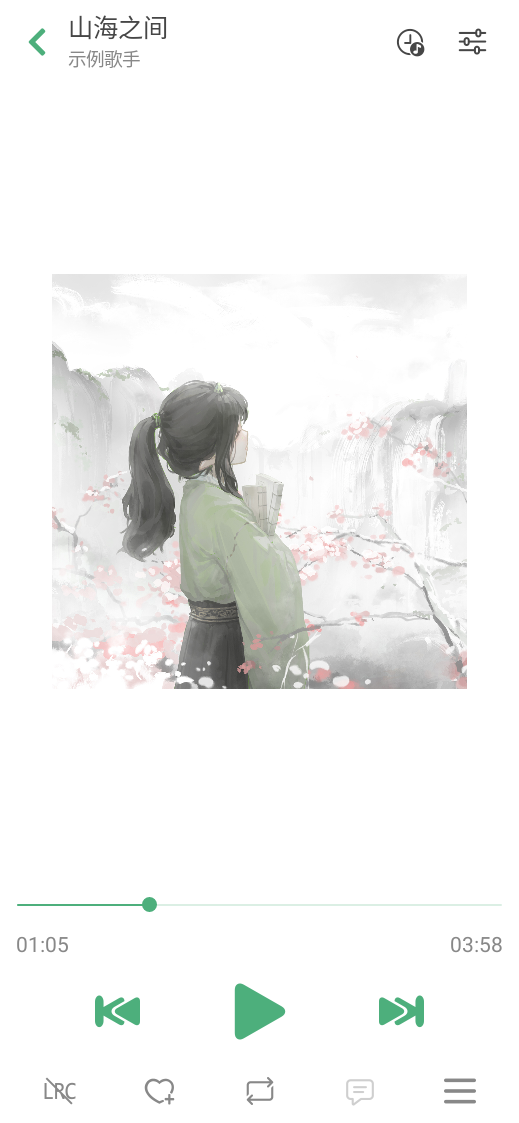
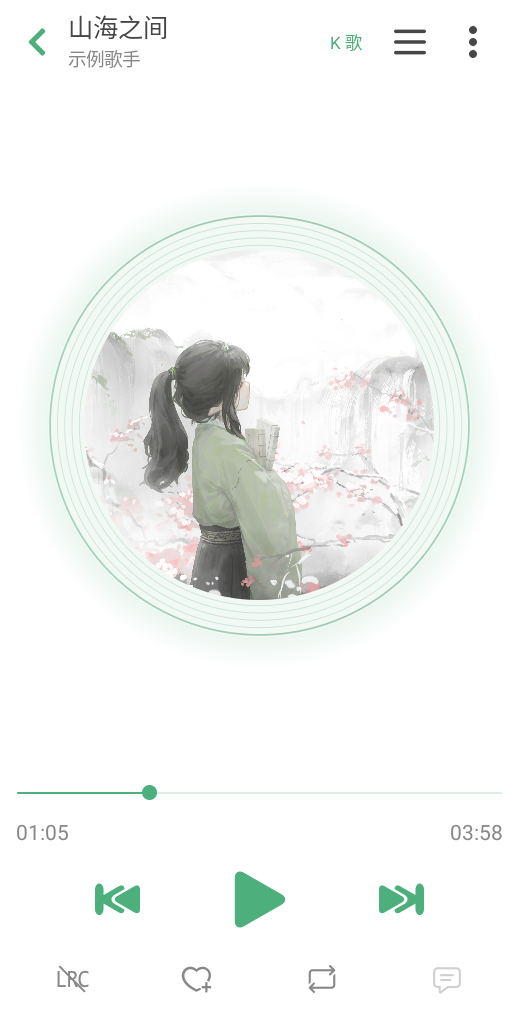
docs: 更新 README 和播放页截图

diff --git a/README.md b/README.md
@@ -1,28 +1,48 @@
 # LX Music 原生 Android
 
-基于 LX Music 迁移的原生 Kotlin 音乐应用，适配手机和平板。
+基于 LX Music 迁移的 Kotlin 原生 Android 音乐应用。支持在线与本地音乐、同步歌词、均衡器和本机 K 歌录唱，适配手机和平板。
 
 > 特别说明：不建议在任何渠道进行公开传播，其后果自负。
 
+## 安装与更新
+
+从 [GitHub Releases](https://github.com/savet-save/lx-music-android/releases) 选择 `native-v*` 发布下的 APK。下表为当前源码启用 ABI 拆分后的六种 APK 文件名后缀，完整文件名以 `lx-music-native-v版本号` 开头。已发布的 [0.9.21](https://github.com/savet-save/lx-music-android/releases/tag/native-v0.9.21) 提供三种普通版 APK。
+
+| 设备架构 | 普通版 | 内置人声分离模型版 |
+| --- | --- | --- |
+| 64 位 ARM（`arm64-v8a`） | `-armv8.apk` | `-armv8-with-model.apk` |
+| 32 位 ARM（`armeabi-v7a`） | `-armv7.apk` | `-armv7-with-model.apk` |
+| 通用（ARM、x86、x86_64） | `-all.apk` | `-all-with-model.apk` |
+
+普通版可在应用内按需下载模型，内置版从 APK 加载模型。设备架构不确定时可选择通用包。
+
+当前源码的应用内更新会保持现有 APK 的模型类型，并按设备支持的架构选包。下载过模型的普通版仍使用普通版更新。缺少匹配的架构包时选用同类型的通用包。应用 ID 为 `cn.toside.music.nativeapp`，覆盖升级需匹配包名和签名。原 LX Music 应用的歌单可通过备份或同步迁入。
+
+早期内置模型版需手动覆盖到支持此规则的内置版一次，之后即可沿内置版更新。
+
 ## 主要特点
 
-- **手机 / 平板自适应**：手机侧边导航与大封面播放页，平板常驻侧栏、封面与歌词并排显示。
-- **音乐发现**：五平台聚合搜索，支持歌曲、歌单、排行榜、推荐和评论；启用“B站音乐”后可搜索 bilibili 视频并播放音频。
-- **多音源管理**：支持本地和链接导入，最多同时启用 3 个音源，自定义优先级，失败后依次尝试。
-- **播放与下载**：播放队列、倍速、定时停止、音频缓存和离线重播，支持下载音频、歌词及封面，bilibili 原始音频可另存为 MP3。
-- **歌词与字幕**：逐字歌词、译文、罗马音和桌面歌词；bilibili 可选择优先视频字幕或优先匹配歌词。
-- **本地音乐与数据同步**：歌曲信息编辑、歌单管理、备份导入导出，支持歌单与不喜欢列表双向同步。
-- **个性化设置**：16 套主题，简体中文、繁体中文和英文，支持字号、歌词排版及左右导航设置。
+- **手机和平板播放页**支持圆形旋转封面，暂停时保留角度。采用主题色的光环随播放音量变化，无需麦克风授权。手机可切换封面和歌词，平板可并排显示。播放与歌词设置、定时停止和歌曲操作集中在右上角的「更多」菜单。
+- **播放和下载**支持队列编辑、播放历史、倍速、音频缓存和离线重播，以及音频、歌词和封面下载。播放队列与播放历史使用独立页面，bilibili 原始音频可另存为 MP3。均衡器可调整各频段增益并查看曲线，频段和增益范围取决于设备。
+- **音乐发现**提供五平台聚合搜索、歌单、排行榜、推荐、搜索历史和热搜。启用「B站音乐」后可搜索 bilibili 视频并播放音频。评论和回复可独立查看，单张配图按比例展示，多张配图以网格显示，点击可查看大图。
+- **多音源与歌词**支持从本地或链接导入脚本，最多同时启用 3 个音源并按优先级尝试。歌词支持逐字、译文、罗马音和桌面歌词，bilibili 可选择优先视频字幕或匹配歌词。
+- **K 歌录唱**支持本机人声分离、伴奏缓存、原唱切换、同步录音和混音试听。可裁剪录音、调整伴奏与人声音量及对齐方式，支持基础降噪。
+- **本地音乐与个性化**支持歌曲信息编辑、歌单与不喜欢列表双向同步、歌单备份恢复、16 套主题，以及简体中文、繁体中文和英文界面。
 
 ## 使用需求
 
-- **系统**：Android 9（API 28）及以上，支持手机和平板。
-- **网络与音源**：在线搜索需要联网；播放或下载未缓存的在线音频还需启用可用音源，新安装默认启用“野花🌷”。使用 bilibili 需启用“B站音乐”，部分内容和字幕需要登录。
-- **功能权限**：访问本地媒体库时按提示授权音频读取，桌面歌词需悬浮窗权限；Android 9 下载文件时需存储写入权限。
-- **数据同步**：需准备兼容 LX v4 的同步服务地址及连接码，在“数据同步”中连接。
-- **首次使用**：阅读并同意应用内的项目使用协议。
+- 手机和平板需运行 Android 9（API 28）或更高版本。首次使用需阅读并同意应用内的项目使用协议。
+- 在线搜索需要联网，播放或下载未缓存的在线音频还需可用音源。新安装默认启用「野花🌷」。bilibili 的部分内容和字幕需要登录。
+- 使用本地媒体库时按提示授权音频读取。桌面歌词需悬浮窗权限，K 歌录音需麦克风权限，Android 9 下载文件时需存储写入权限。
+- 数据同步需准备兼容 LX v4 的同步服务地址及连接码，在「数据同步」中连接。
 
-自行构建需 JDK 17 和 Android SDK 36，步骤见[使用与开发说明](DEVELOPMENT.md)。
+## K 歌与人声分离
+
+1. 选择歌曲，在播放页点击「K 歌」。伴奏准备显示百分比，同一歌曲和分离配置匹配时可复用伴奏缓存。
+2. 录音时可同步看歌词、暂停、继续或提前结束，歌曲结束后自动停止。录完可拖动试听进度，也可在试听时实时调整伴奏和人声音量。
+3. 保存后，混音以 WAV 形式存入应用私有目录。可在「我的列表」或 K 歌页打开「我的 K 歌歌单」，播放、查看录制时间等信息、导出或分享。
+
+「设置 → 人声分离」可下载约 30 MB 的 MDX-Net（UVR 9703）模型，也可从 K 歌页按需下载。内置版可离线加载模型，本地分离使用 ONNX Runtime。设置中可调整消除强度、分块重叠和推理线程，修改在下次准备伴奏时应用。模型未安装、关闭、内存不足或分离失败时，可使用基础伴奏。人声残留与处理耗时取决于原音和设备。
 
 ## 界面预览
 
@@ -46,6 +66,17 @@
 - **登录凭据**：bilibili SESSDATA 和网易歌单访问凭据通过 Android Keystore 加密保存在本机，可在设置中清除；bilibili 凭据不会提供给自定义音源脚本或音频 CDN。
 - **第三方服务**：仅在连接同步服务后同步歌单和不喜欢列表。请使用可信任的音源脚本及同步服务，第三方服务会接收相应请求或同步数据。
 - **备份与恢复**：卸载应用或清除应用数据前，请先导出歌单备份。备份文件含歌单及歌曲信息，请妥善保管，恢复时核对合并或覆盖选项。
+- **K 歌录音**在本机进行录制、人声分离和混音。需要单独保存录音作品时，可在「我的 K 歌歌单」使用导出功能。
+
+## 构建与验证
+
+使用 JDK 17、Android SDK 36、NDK 27.2.12479018 和 CMake 3.22.1。在仓库根目录运行以下 Gradle 任务。
+
+```powershell
+.\gradlew.bat :app:assembleDebug :app:testDebugUnitTest :app:lintDebug
+```
+
+普通正式版使用 `:app:assembleRelease`。内置模型版使用 `:app:assembleModelRelease`，并通过 `-PnativeBundledMdxModel` 指定本地 ONNX 权重文件。两种构建均可加 `-PnativeSplitApks=true` 生成 ARM 和通用附件。模型权重在构建时校验并嵌入，签名配置、模型下载地址及发布步骤见 [构建与发布](RELEASING.md)。
 
 ## 更多说明
 
@@ -53,4 +84,4 @@
 
 ## 来源与许可
 
-基于 [lyswhut/lx-music-mobile](https://github.com/lyswhut/lx-music-mobile)，保留原项目的 [Apache 2.0 许可](LICENSE)、资源及使用协议。第三方组件许可可在应用“关于与版本”中查看。
+基于 [lyswhut/lx-music-mobile](https://github.com/lyswhut/lx-music-mobile)，保留原项目的 [Apache 2.0 许可](LICENSE)、资源及使用协议。K 歌使用的 [ONNX Runtime](app/src/main/assets/licenses/ONNX-Runtime-MIT.txt) 与 [Ultimate Vocal Remover](app/src/main/assets/licenses/Ultimate-Vocal-Remover-MIT.txt) 许可随应用附带。第三方组件许可也可在应用「关于与版本」中查看。
